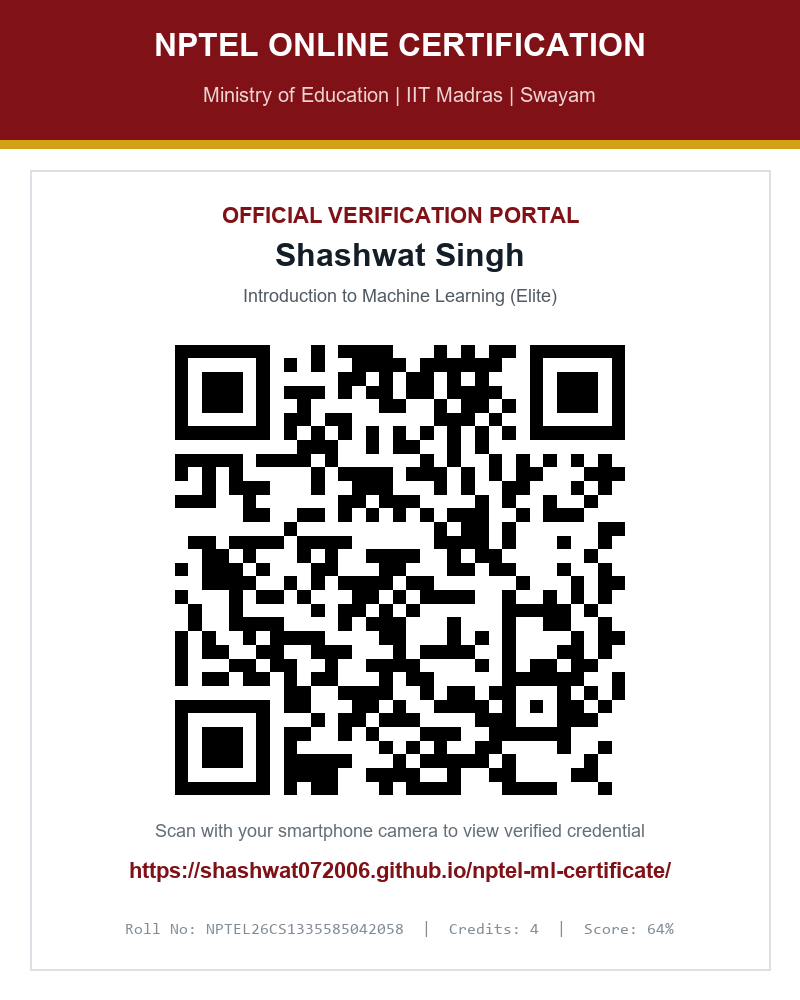
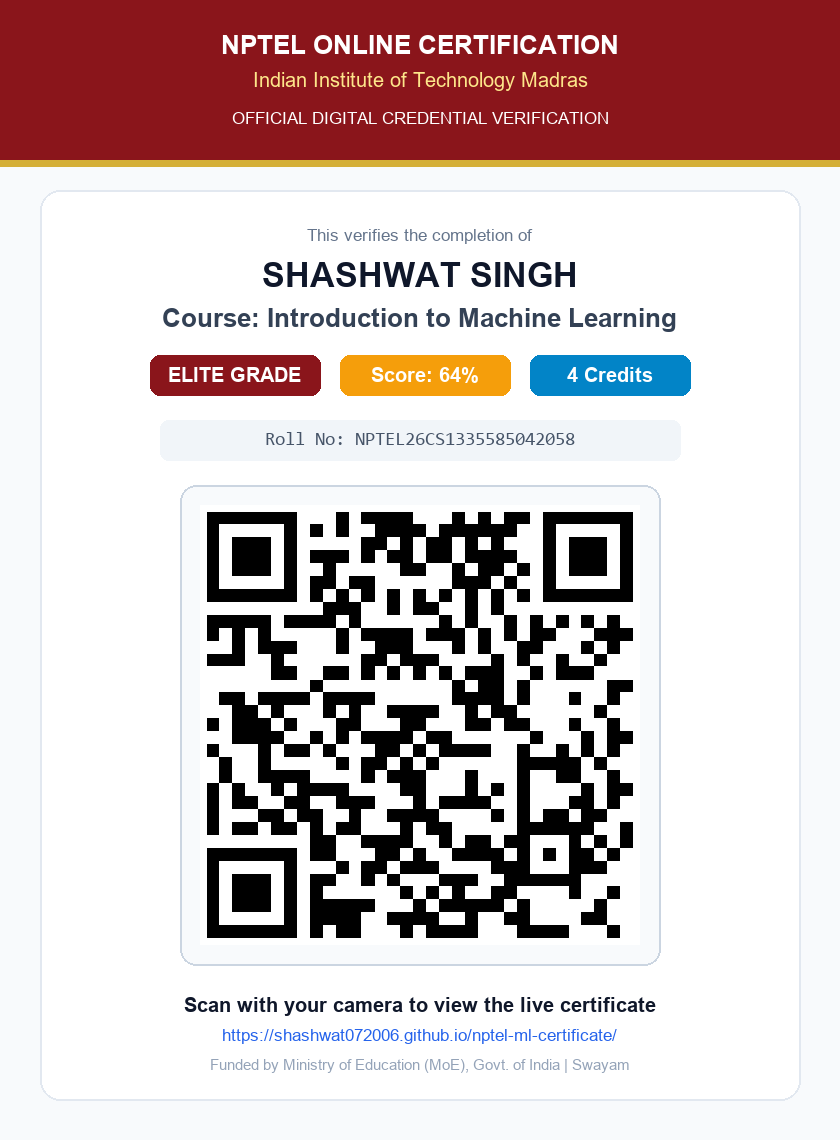
Add high-res verification QR code, SVG, and updated card

Changed region(s): [[0.1562, 0.186, 0.8438, 0.961], [0.0, 0.031, 1.0, 0.961]]

diff --git a/index.html b/index.html
@@ -3,7 +3,11 @@
 <head>
   <meta charset="UTF-8">
   <meta name="viewport" content="width=device-width, initial-scale=1.0">
-  <title>Certificate</title>
+  <title>NPTEL Online Certification - Shashwat Singh</title>
+  <meta name="description" content="NPTEL Online Certification for Shashwat Singh - Introduction to Machine Learning (Elite, 64%) - IIT Madras">
+  <meta property="og:title" content="NPTEL Certification - Shashwat Singh">
+  <meta property="og:description" content="Introduction to Machine Learning - Elite Grade (64%) - IIT Madras & NPTEL">
+  <meta property="og:image" content="certificate.jpg">
   <style>
     * {
       margin: 0;
@@ -12,21 +16,36 @@
     }
     html, body {
       width: 100%;
-      min-height: 100%;
-      background-color: #ffffff;
+      min-height: 100vh;
+      background-color: #f1f5f9;
+      display: flex;
+      flex-direction: column;
+      justify-content: center;
+      align-items: center;
+      padding: 16px;
+      font-family: -apple-system, BlinkMacSystemFont, "Segoe UI", Roboto, sans-serif;
+    }
+    .cert-wrapper {
+      background: #ffffff;
+      border-radius: 8px;
+      box-shadow: 0 8px 30px rgba(0, 0, 0, 0.12);
+      overflow: hidden;
+      max-width: 900px;
+      width: 100%;
       display: flex;
       justify-content: center;
-      align-items: flex-start;
+      align-items: center;
     }
-    img {
-      max-width: 100%;
+    .cert-wrapper img {
+      width: 100%;
       height: auto;
       display: block;
-      margin: 0 auto;
     }
   </style>
 </head>
 <body>
-  <img src="certificate.jpg" alt="Certificate">
+  <div class="cert-wrapper">
+    <img src="certificate.jpg" alt="NPTEL Online Certification - Shashwat Singh - Introduction to Machine Learning">
+  </div>
 </body>
 </html>

diff --git a/README.md b/README.md
@@ -1,8 +1,25 @@
-# NPTEL Certificate Viewer
+# NPTEL Certificate Verification - Shashwat Singh
 
-Live site: [https://shashwat072006.github.io/nptel-ml-certificate/](https://shashwat072006.github.io/nptel-ml-certificate/)
+Official verifiable digital credential portal for **Shashwat Singh**.
 
-### Verification QR Code
-Scan with any camera or QR scanner to view the certificate photo:
+- **Course**: Introduction to Machine Learning (12-Week Course, Jul - Oct 2026)
+- **Institution**: Indian Institute of Technology Madras (IIT Madras) & NPTEL
+- **Grade**: Elite (Consolidated Score: 64%)
+- **Assignments**: 24.85 / 25
+- **Proctored Exam**: 39 / 75
+- **Roll Number**: `NPTEL26CS1335585042058`
+- **Live Verification URL**: [https://shashwat072006.github.io/nptel-ml-certificate/](https://shashwat072006.github.io/nptel-ml-certificate/)
 
-![QR Code](qr_code.png)
+---
+
+### Verification QR Code Card
+Scan the QR code below with any smartphone or camera to view the live certificate:
+
+<p align="center">
+  <img src="qr_code_card.png" width="420" alt="NPTEL Verification QR Code Card - Shashwat Singh">
+</p>
+
+### Direct QR Code
+<p align="center">
+  <img src="qr_code.png" width="260" alt="QR Code">
+</p>
